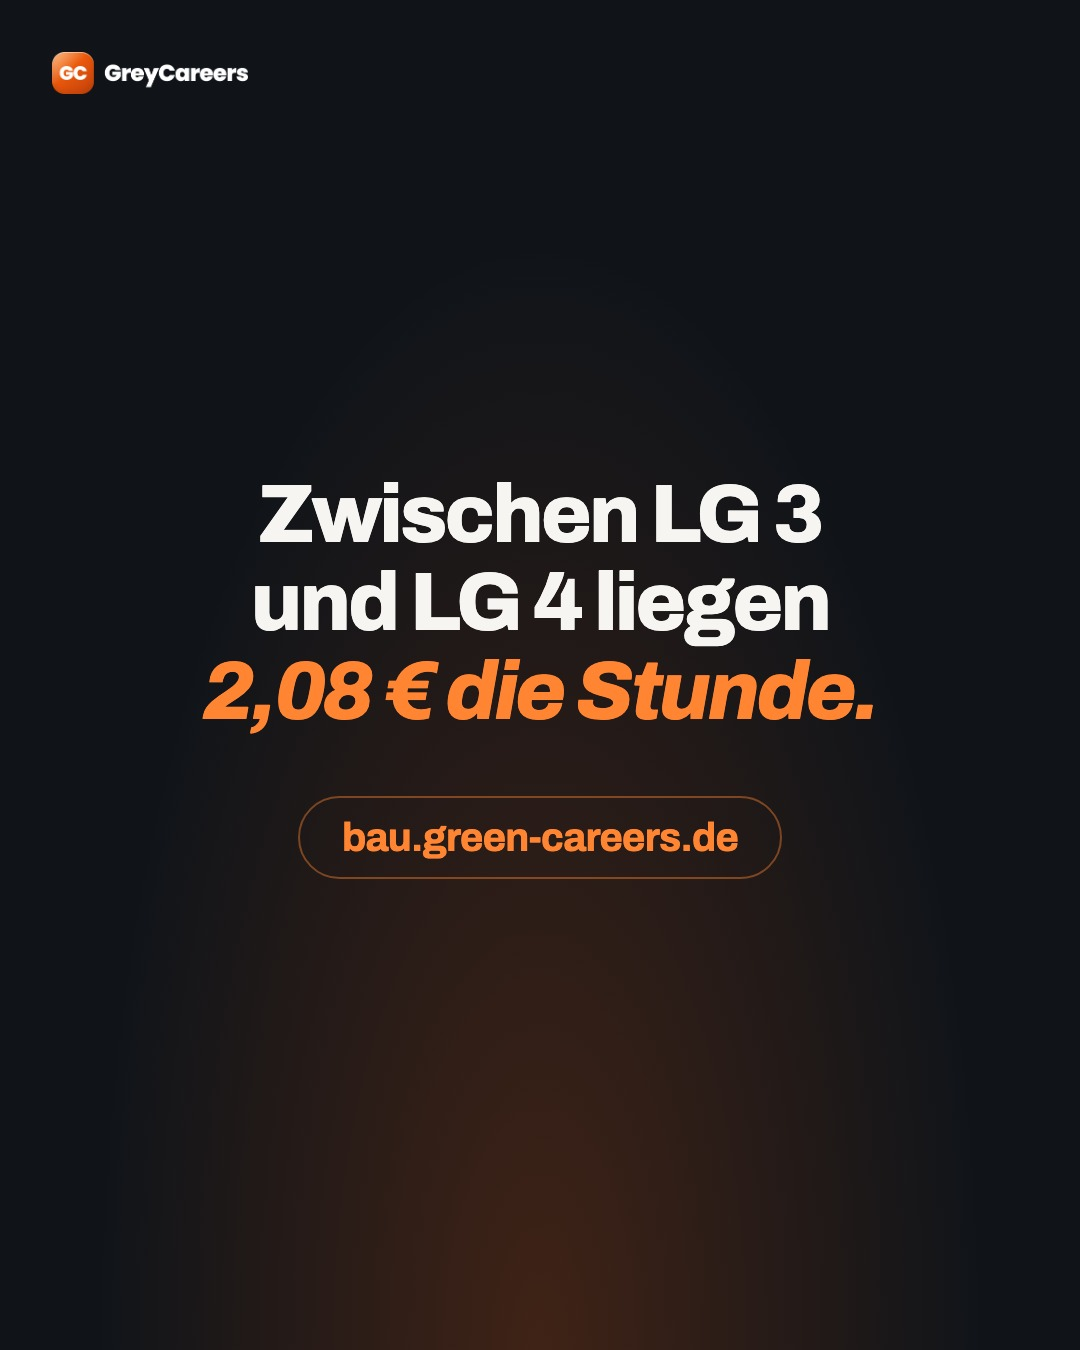
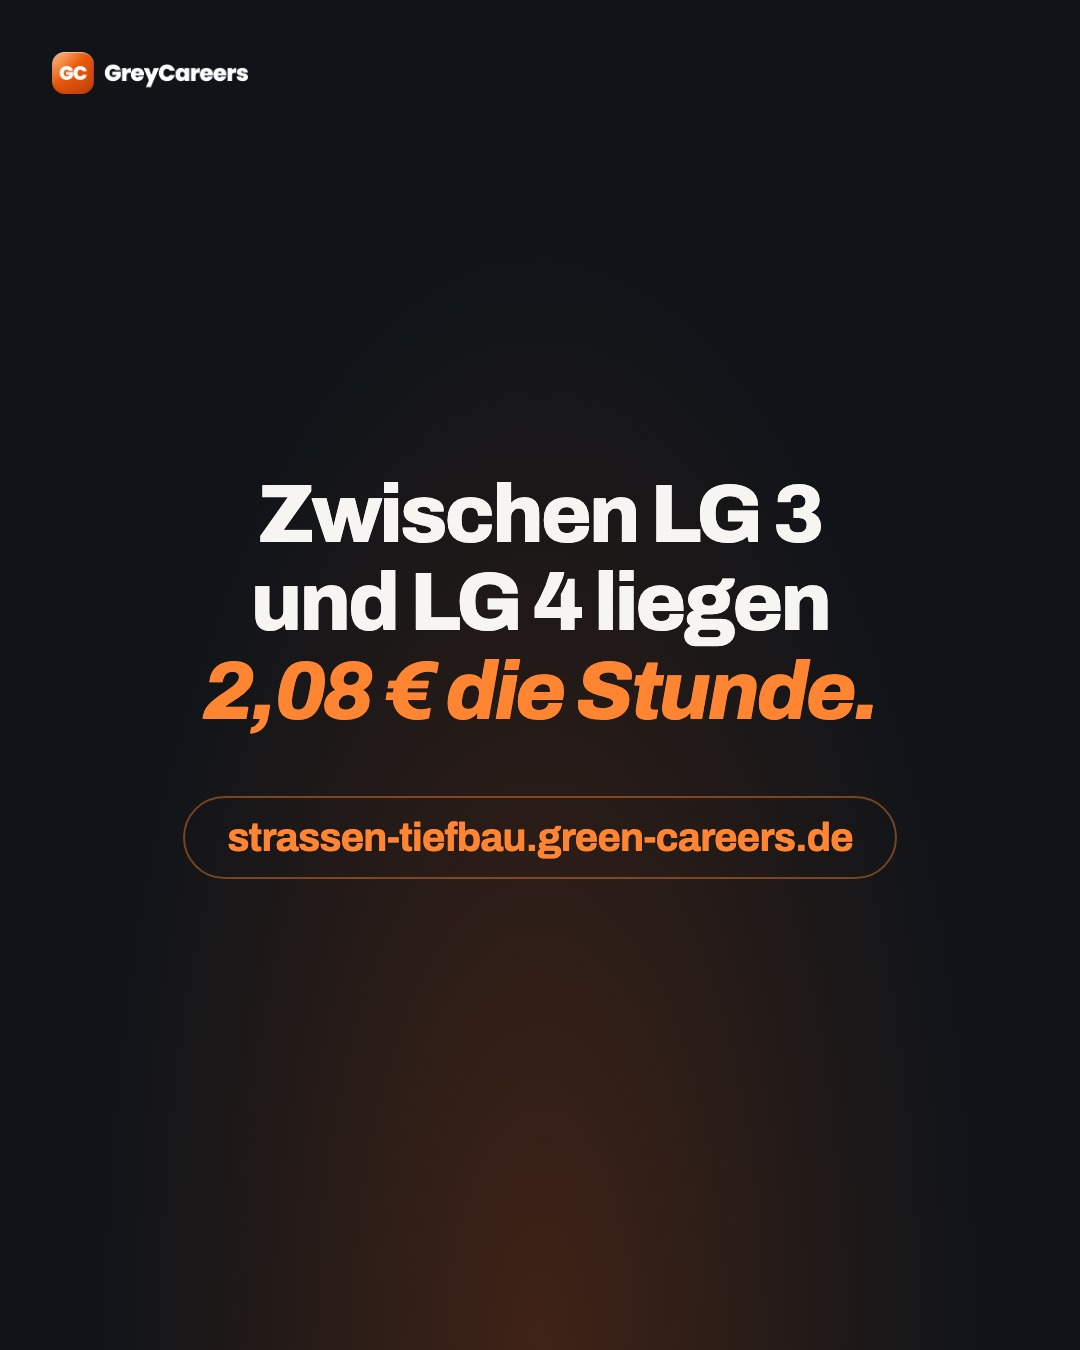
CTAs auf echte Ziel-Domains statt Sammelseite
Bio wird nativ mit mehreren Links gebaut (wie bei GC), die Hub-Seite
bau.green-careers.de entfällt als Ziel. Captions und die 7 Karussell-Abbinder
zeigen jetzt direkt auf strassen-tiefbau (Bewerber) bzw. beratung-tiefbau
(Arbeitgeber).

Changed region(s): [[0.2139, 0.5911, 0.7944, 0.6533]]

diff --git a/index.html b/index.html
@@ -100,7 +100,7 @@ Der Weg ist kein Geheimnis: erst sicher im Gewerk, dann Verantwortung für eine 
 
 Der entscheidende Punkt: Es gibt Betriebe, die das bezahlen und begleiten. Und welche, die warten, bis jemand von allein soweit ist.
 
-👉 bau.green-careers.de
+👉 strassen-tiefbau.green-careers.de
 
 Quelle: Tarifabschluss Bauhauptgewerbe, gültig seit 1. April 2026
 
@@ -142,7 +142,7 @@ Für die meisten am Bau ist das keine Drohung, sondern einfach der Takt. Was den
 
 Wenn dich das gerade beschäftigt — im Netzwerk stehen Betriebe aus deiner Region.
 
-👉 bau.green-careers.de
+👉 strassen-tiefbau.green-careers.de
 
 #baujobs #tiefbau #strassenbau</pre>
     <div class="komm"><b>Erst-Kommentare</b><ol><li>Wie lang ist euer Weg zur Baustelle – ehrlich?</li></ol></div>
@@ -206,7 +206,7 @@ Erstens: Du wirst am Anfang mehr tragen als bauen — das gehört dazu und hört
 
 13.977 haben zuletzt angefangen. Plus 13,3 Prozent gegenüber dem Vorjahr.
 
-👉 bau.green-careers.de
+👉 strassen-tiefbau.green-careers.de
 
 Quelle: ZDB / SOKA-BAU, April 2026
 
@@ -250,7 +250,7 @@ Ohne Ausbildung fängst du in Lohngruppe 1 an, mit etwas Erfahrung in Lohngruppe
 
 Der Weg nach oben ist im Bau kürzer als in den meisten Branchen. Er fängt nur weiter unten an.
 
-👉 bau.green-careers.de
+👉 strassen-tiefbau.green-careers.de
 
 Quelle: Tarifabschluss Bauhauptgewerbe, gültig seit 1. April 2026
 
@@ -356,7 +356,7 @@ Montage ist die Frage, die bei Bewerbungsgesprächen am Bau am seltensten ehrlic
 
 Frag im Gespräch konkret nach: Wie viele Wochen am Stück, wie weit weg, wie wird der Auslöse abgerechnet, wer zahlt die Heimfahrten.
 
-👉 bau.green-careers.de
+👉 strassen-tiefbau.green-careers.de
 
 #baujobs #montage #tiefbau</pre>
     <div class="komm"><b>Erst-Kommentare</b><ol><li>Wie viele Nächte waren es bei euch dieses Jahr?</li><li>Betriebe lesen mit: Sagt ihr die Montage-Anteile im Gespräch offen an?</li></ol></div>
@@ -398,7 +398,7 @@ Sperrpausen liegen nachts und am Wochenende, die Baustelle wandert, und zwischen
 
 Wer Schichten und Wochenenden mitbringt, hat im Gleisbau Argumente. Die sollte man beim Gespräch auch nennen.
 
-👉 bau.green-careers.de
+👉 strassen-tiefbau.green-careers.de
 
 #gleisbau #baujobs #bauhauptgewerbe</pre>
     <div class="komm"><b>Erst-Kommentare</b><ol><li>Gleisbauer hier? Zeigt euch in den Kommentaren. 🚂</li><li>Und: Nachtschicht – Fluch oder Segen?</li></ol></div>
@@ -438,7 +438,7 @@ So läuft es bei uns: Du legst in ein paar Minuten an, was du kannst und wo du a
 
 Über 1.100 Bauunternehmen sind dabei.
 
-👉 bau.green-careers.de
+👉 strassen-tiefbau.green-careers.de
 
 #baujobs #tiefbau #strassenbau</pre>
     <div class="komm"><b>Erst-Kommentare</b><ol><li>Fragen zum Ablauf? Hier oder per DM – wir antworten schnell.</li></ol></div>
@@ -458,7 +458,7 @@ Dahinter steckt der eigentlich größere Satz: Seit dem 1. April 2026 gilt diese
 
 Bei 173 Stunden im Monat sind das rund 4.507 Euro brutto in Vollzeit.
 
-👉 bau.green-careers.de
+👉 Link im Profil
 
 Quelle: Tarifabschluss Bauhauptgewerbe, IG BAU / ZDB / HDB, gültig seit 1. April 2026
 
@@ -502,7 +502,7 @@ Das durchschnittliche Renteneintrittsalter im Bau liegt bei 58 Jahren. Gleichzei
 
 Das ist keine Konjunktur, die man aussitzen kann. Das ist Demografie.
 
-👉 bau.green-careers.de
+👉 Link im Profil
 
 Quellen: Hauptverband der Deutschen Bauindustrie · ZDB / SOKA-BAU, April 2026
 
@@ -546,7 +546,7 @@ Seit dem 1. April 2026 gilt im Bauhauptgewerbe zum ersten Mal seit der Wiederver
 
 Ein Blick in den Vertrag lohnt sich: Zwischen Lohngruppe 3 und Lohngruppe 4 liegen 2,08 Euro die Stunde. Bei Vollzeit sind das rund 360 Euro brutto im Monat.
 
-👉 bau.green-careers.de
+👉 strassen-tiefbau.green-careers.de
 
 Quelle: Tarifabschluss Bauhauptgewerbe, IG BAU / ZDB / HDB, gültig seit 1. April 2026
 
@@ -650,7 +650,7 @@ Das Sondervermögen Infrastruktur umfasst 500 Milliarden Euro bis 2045, 100 Mill
 
 Für alle, die im Tiefbau, Brückenbau oder Gleisbau arbeiten, heißt das vor allem eins: Die Arbeit geht in den nächsten Jahren nicht aus.
 
-👉 bau.green-careers.de
+👉 Link im Profil
 
 Quelle: Bundesregierung, Sondervermögen Infrastruktur und Klimaneutralität
 
@@ -672,7 +672,7 @@ Wenn ein Geschäftsführer aus dem Tiefbau bei uns anruft, redet er nicht mit ei
 
 Das ist der ganze Unterschied zwischen 40 unpassenden Bewerbungen und einer richtigen.
 
-👉 bau.green-careers.de
+👉 strassen-tiefbau.green-careers.de
 
 #bauunternehmen #recruiting #greycareers</pre>
     <div class="komm"><b>Erst-Kommentare</b><ol><li>Danke fürs Mitlesen im ersten Monat. 🦺</li></ol></div>
